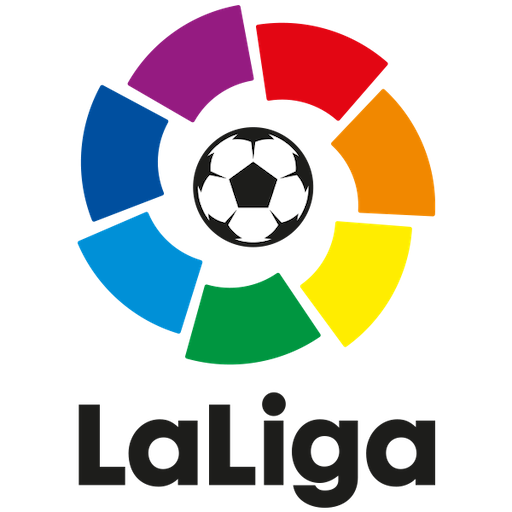
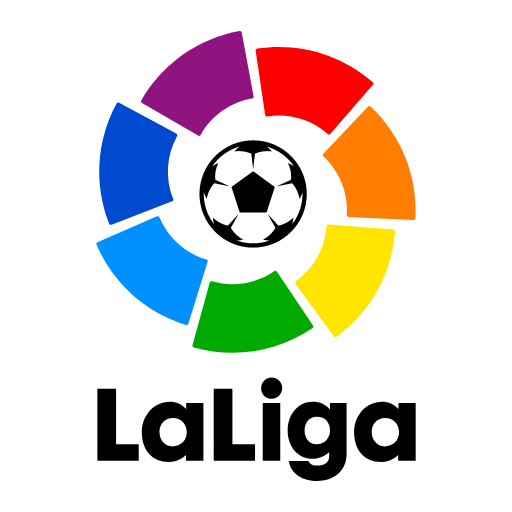
chore(assets): update metadata

diff --git a/README.md b/README.md
@@ -4,7 +4,7 @@
 
 All the information of LaLiga Santander, LaLiga SmartBank, and Primera División Femenina: schedules, results, standings, news, statistics, and much more in [Raycast](https://raycast.com/)
 
-![Example](./metadata/laliga-01.png)
+![Example](./metadata/laliga-1.png)
 
 ## Issues
 

diff --git a/CHANGELOG.md b/CHANGELOG.md
@@ -1,5 +1,10 @@
 # LaLiga Changelog
 
+## [Improvements] - 2023-02-09
+- Update Standings
+- Fix city name of stadium
+- Update extension icon
+
 ## [Improvements] - 2022-06-14
 
 - Using new Grid layout for some commands
